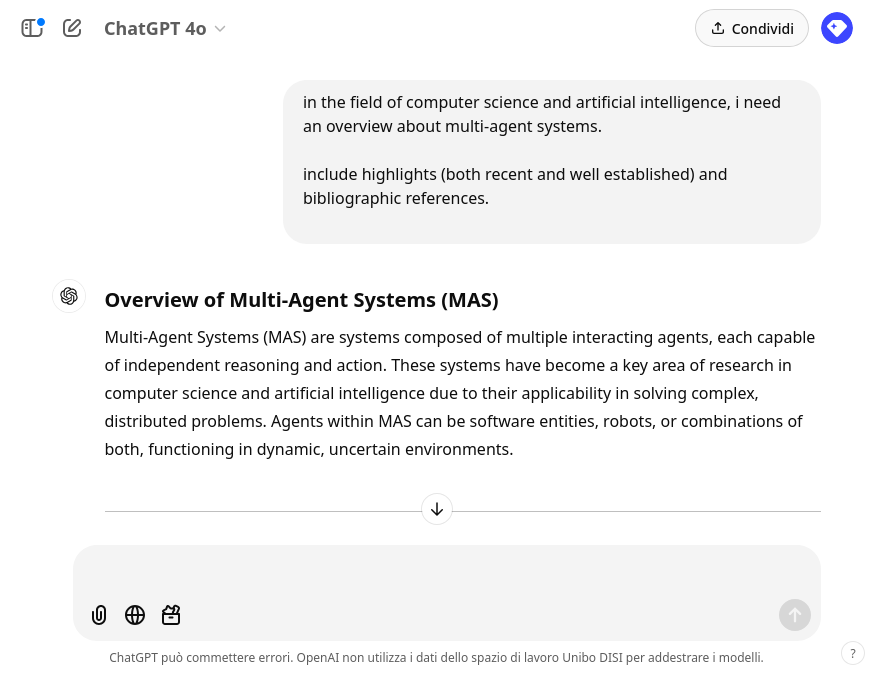
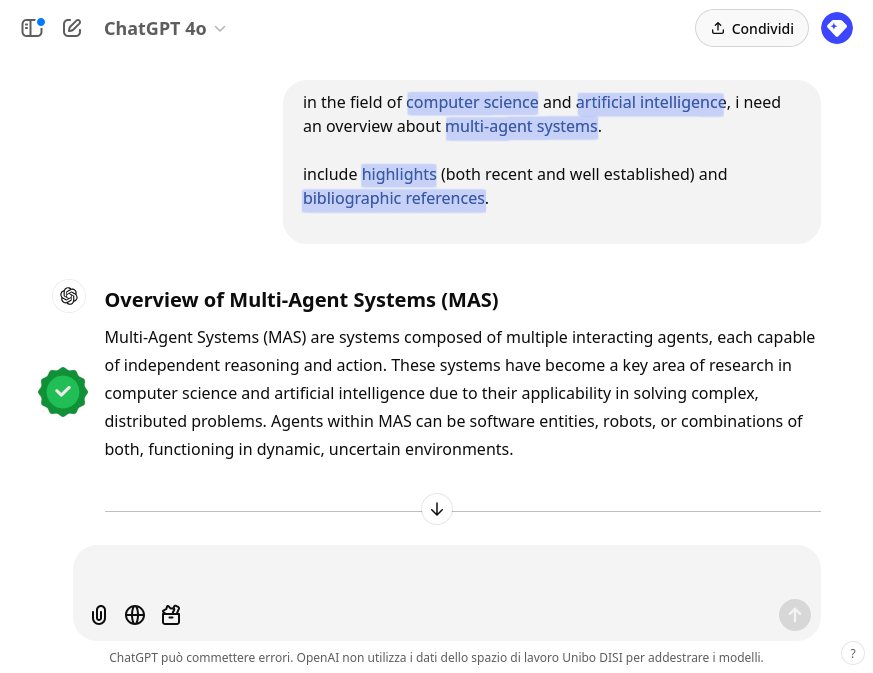
wip: describe literature exploration with chatgpt

Changed region(s): [[0.4639, 0.1248, 0.8351, 0.2184], [0.3402, 0.2184, 0.5567, 0.3432], [0.0309, 0.5305, 0.1237, 0.6241]]

diff --git a/content/_index.md b/content/_index.md
@@ -116,6 +116,8 @@ Algoritmi di _IA_ in grado di __generare automaticamente__ _contenuti_, e.g.:
 
 ---
 
+{{< slide id="interfaces" >}}
+
 # Principali soluzioni __tecnologiche__
 
 ## Categorizzate per tipo di __interfaccia__
@@ -321,6 +323,237 @@ Albania, Andorra, Austria, Belarus, Belgium, Bosnia and Herzegovina, Bulgaria, C
 {{% /col %}}
 {{% /multicol %}}
 
+---
+
+{{< slide id="modes" >}}
+
+# Principali __modalità d'utilizzo__
+
+## Categorizzate per __ruolo di GenAI__
+
+### GenAI come... 
+
+* ... _motore di ricerca_: uso GenAI per __ricercare__ informazioni
+* ... _assistente di (ri)scrittura_: uso GenAI per __(ri)scrivere__ documenti
+* ... _assistente di lettura_: uso GenAI per __acquisire informazioni__ da documenti
+* ... _generatore di contenuti_: uso GenAI per __creare__ contenuti
+
+---
+
+## GenAI come _motore di ricerca_
+
+### Disclaimer
+
+> GenAI __non è__ un _motore di ricerca_ come Google, Bing, DuckDuckGo, etc.
+
+{{% fragment %}}
+
+- FM, di base, __non accedono__ al Web (__né interrogano__ qualche sorgente) prima di rispondere
+    * alcune tecnologie specifiche possono farlo, ma non c'è garanzia
+
+- FM, di base, rispondono in base a _dati_ e _conoscenze_ acquisite durante __l'allenamento__
+    * informazioni _successive_ all'ultimo ciclo di apprendimento potrebbero non essere considerate
+
+- FM possono essere immaginati come __grandi memorie__
+    * in cui (porzioni de) lo _scibile umano_ è stato _"registrato"_
+    * interrogabili tramite il _linguaggio naturale_
+
+- Le risposte di GenAI non vanno _mai_ accettate __acriticamente__, in quanto suscettibili di _allucinazioni_:
+    * __errori__: informazioni fattualmente false o inventate, riportate con sicumera
+    * __fraitendimenti__: informazioni fuori contesto o non pertinenti rispetto all'aspettativa dell'utente
+    * __bias__: di campionamento delle informazioni, di selezione del motore di ricerca, intrinseci nel linguaggio, etc.
+
+{{% /fragment %}}
+
+---
+
+## GenAI come _motore di ricerca_
+
+### Razionale
+
+<br>
+
+Possiamo considerare FM come __esperti__ su tematiche che:
+* siano temporalmente _consolidate_ $\implies$ diffidare di risposte su temi _recenti_
+* siano relativamente _popolari_ $\implies$ diffidare di risposte su temi _di nicchia_
+
+{{% fragment %}}
+
+### <br> Consigli sempre validi
+
+* verificare le __fonti__ menzionate da GenAI
+   - esistono davvero? sono aggiornate?
+
+* verificare l'__aderenza__ alle fonti
+    - la fonte dice davvero quello che GenAI ha riportato?
+
+{{% /fragment %}}
+
+---
+
+{{% section %}}
+
+{{< slide id="example-search-chatgpt-mas" >}}
+
+## GenAI come _motore di ricerca_
+
+### Esempio: esplorazione sull'argomento ["Sistemi multi-agente"](https://en.wikipedia.org/wiki/Multi-agent_system), con ChatGPT
+
+> Un sistema multi-agente (MAS) è un tipo di sistema composto da __molteplici agenti indipendenti__ (ma _interattivi_), ciascuno capace di _percepire_ il proprio ambiente e di intraprendere _azioni_. 
+> Gli agenti possono essere _modelli di IA_, programmi _software_, _robot_ e altre _entità computazionali_. 
+> _Molteplici agenti_ possono _cooperare_ o verso un _obiettivo comune_ che va oltre le capacità dei singoli agenti, con una maggiore adattabilità e robustezza.
+
+(cf. <https://www.gartner.com/en/information-technology/glossary/multiagent-systems>)
+
+<br>
+
+### Link alla conversazione completa
+
+<https://chatgpt.com/share/e/679a41e7-e164-8004-8f01-d135dde3892c>
+
+---
+
+{{% multicol %}}
+{{% col %}}
+{{< image src="./search-engine/chatgpt/mas-1.png" width="100%" max-h="90vh" >}}
+{{% /col %}}
+{{% col %}}
+- Definizione __corretta__
+{{% /col %}}
+{{% /multicol %}}
+
+---
+
+{{% multicol %}}
+{{% col %}}
+{{< image src="./search-engine/chatgpt/mas-2.png" width="100%" max-h="90vh" >}}
+{{% /col %}}
+{{% col %}}
+- Caratteristiche __corrette__
+{{% /col %}}
+{{% /multicol %}}
+
+---
+
+{{% multicol %}}
+{{% col %}}
+{{< image src="./search-engine/chatgpt/mas-3.png" width="100%" max-h="90vh" >}}
+{{% /col %}}
+{{% col %}}
+- Le applicazioni _menzionate_ sono __corrette__
+- _Nessuna_ garanzia di __esaustività__
+{{% /col %}}
+{{% /multicol %}}
+
+---
+
+{{% multicol %}}
+{{% col %}}
+{{< image src="./search-engine/chatgpt/mas-4.png" width="100%" max-h="90vh" >}}
+{{% /col %}}
+{{% col %}}
+- _Nessuna_ garanzia di __esaustività__
+- Nessun riferimento per [AlphaStar](https://deepmind.google/discover/blog/alphastar-mastering-the-real-time-strategy-game-starcraft-ii/)
+- Interserzione con _altre nicchie_
+    + __blockchain__, __protocolli di consenso__
+{{% /col %}}
+{{% /multicol %}}
+
+---
+
+{{% multicol %}}
+{{% col %}}
+{{< image src="./search-engine/chatgpt/mas-5.png" width="100%" max-h="90vh" >}}
+{{% /col %}}
+{{% col %}}
+- Gli aspetti _menzionati_ hanno __fondamenta solide__
+- Lista __incompleta__
+{{% /col %}}
+{{% /multicol %}}
+
+---
+
+{{% multicol %}}
+{{% col %}}
+{{< image src="./search-engine/chatgpt/mas-6.png" width="100%" max-h="90vh" >}}
+{{% /col %}}
+{{% col %}}
+- Tutte menzioni __corrette__
+- _Nessuna_ garanzia di __esaustività__
+{{% /col %}}
+{{% /multicol %}}
+
+---
+
+{{% multicol %}}
+{{% col %}}
+{{< image src="./search-engine/chatgpt/mas-7.png" width="100%" max-h="90vh" link="https://arxiv.org/abs/1706.02275" >}}
+{{% /col %}}
+{{% col %}}
+- [Link ad Arxiv](https://arxiv.org/abs/1706.02275) __corretto__
+- Riferimento _adeguato_ al contesto corrente
+- No riferimeto a [paper definitivo](https://dl.acm.org/doi/10.5555/3295222.3295385)
+{{% /col %}}
+{{% /multicol %}}
+
+---
+
+{{% multicol %}}
+{{% col %}}
+{{< image src="./search-engine/chatgpt/mas-8.png" width="100%" max-h="90vh" link="https://arxiv.org/abs/1903.08082" >}}
+{{% /col %}}
+{{% col %}}
+- Riferimento _adeguato_ al contesto corrente
+- [Link ad Arxiv](https://arxiv.org/abs/1903.08082) __incoerente__ col riferimento
+- Il paper menzionato ha un __altro URL__: 
+    + <https://arxiv.org/abs/2011.05373>
+- No riferimeto a [paper definitivo](https://dl.acm.org/doi/10.5555/3495724.3497048)
+{{% /col %}}
+{{% /multicol %}}
+
+---
+
+{{% multicol %}}
+{{% col %}}
+{{< image src="./search-engine/chatgpt/mas-9.png" width="100%" max-h="90vh" link="https://arxiv.org/abs/1906.01220" >}}
+{{% /col %}}
+{{% col %}}
+- Riferimento _**in**adeguato_ al contesto corrente
+- [Link ad Arxiv](https://arxiv.org/abs/1906.01220) __incoerente__ col riferimento
+- Il paper menzionato ha un __altro URL__: 
+    + <https://arxiv.org/abs/1809.03531>
+- No riferimeto a [paper definitivo](https://doi.org/10.1109/LRA.2019.2903261)
+{{% /col %}}
+{{% /multicol %}}
+
+---
+
+{{% multicol %}}
+{{% col %}}
+{{< image src="./search-engine/chatgpt/mas-10.png" width="100%" max-h="90vh" link="https://arxiv.org/abs/1910.05789" >}}
+{{% /col %}}
+{{% col %}}
+- [Link ad Arxiv](https://arxiv.org/abs/1910.05789) __corretto__
+- Riferimento _adeguato_ al contesto corrente
+- No riferimeto a [paper definitivo](https://dl.acm.org/doi/10.5555/3454287.3454752)
+{{% /col %}}
+{{% /multicol %}}
+
+---
+
+{{% multicol %}}
+{{% col %}}
+{{< image src="./search-engine/chatgpt/mas-11.png" width="100%" max-h="90vh" link="https://arxiv.org/abs/1803.08884" >}}
+{{% /col %}}
+{{% col %}}
+- [Link ad Arxiv](https://arxiv.org/abs/1803.08884) __corretto__
+- Riferimento _adeguato_ al contesto corrente
+- No riferimeto a [paper definitivo](https://dl.acm.org/doi/10.5555/3327144.3327252)
+{{% /col %}}
+{{% /multicol %}}
+
+
+{{% /section %}}
 
 ---
 
